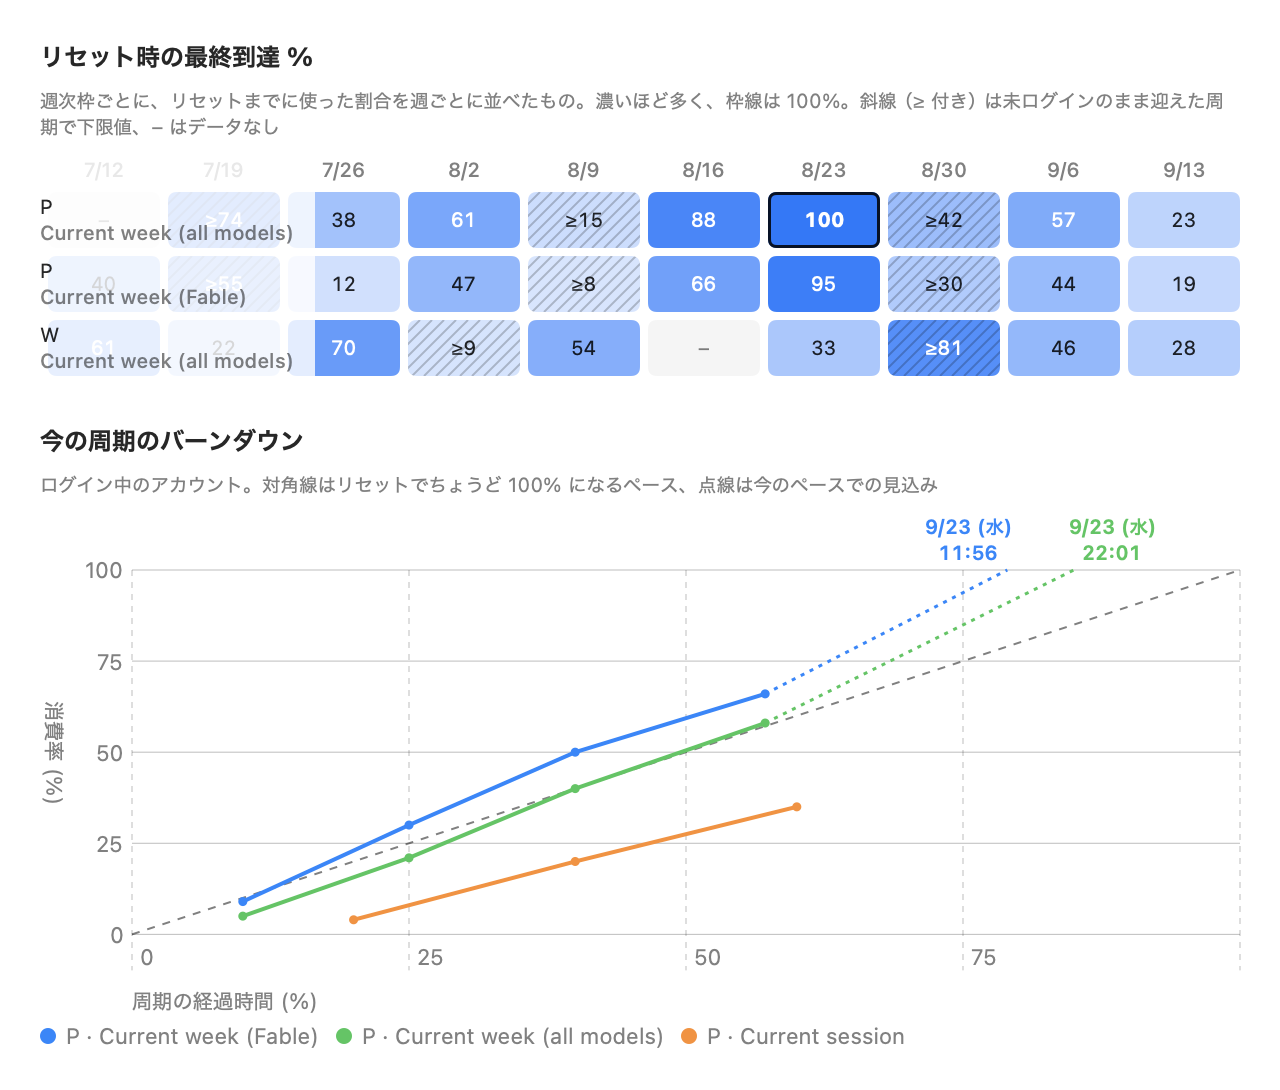
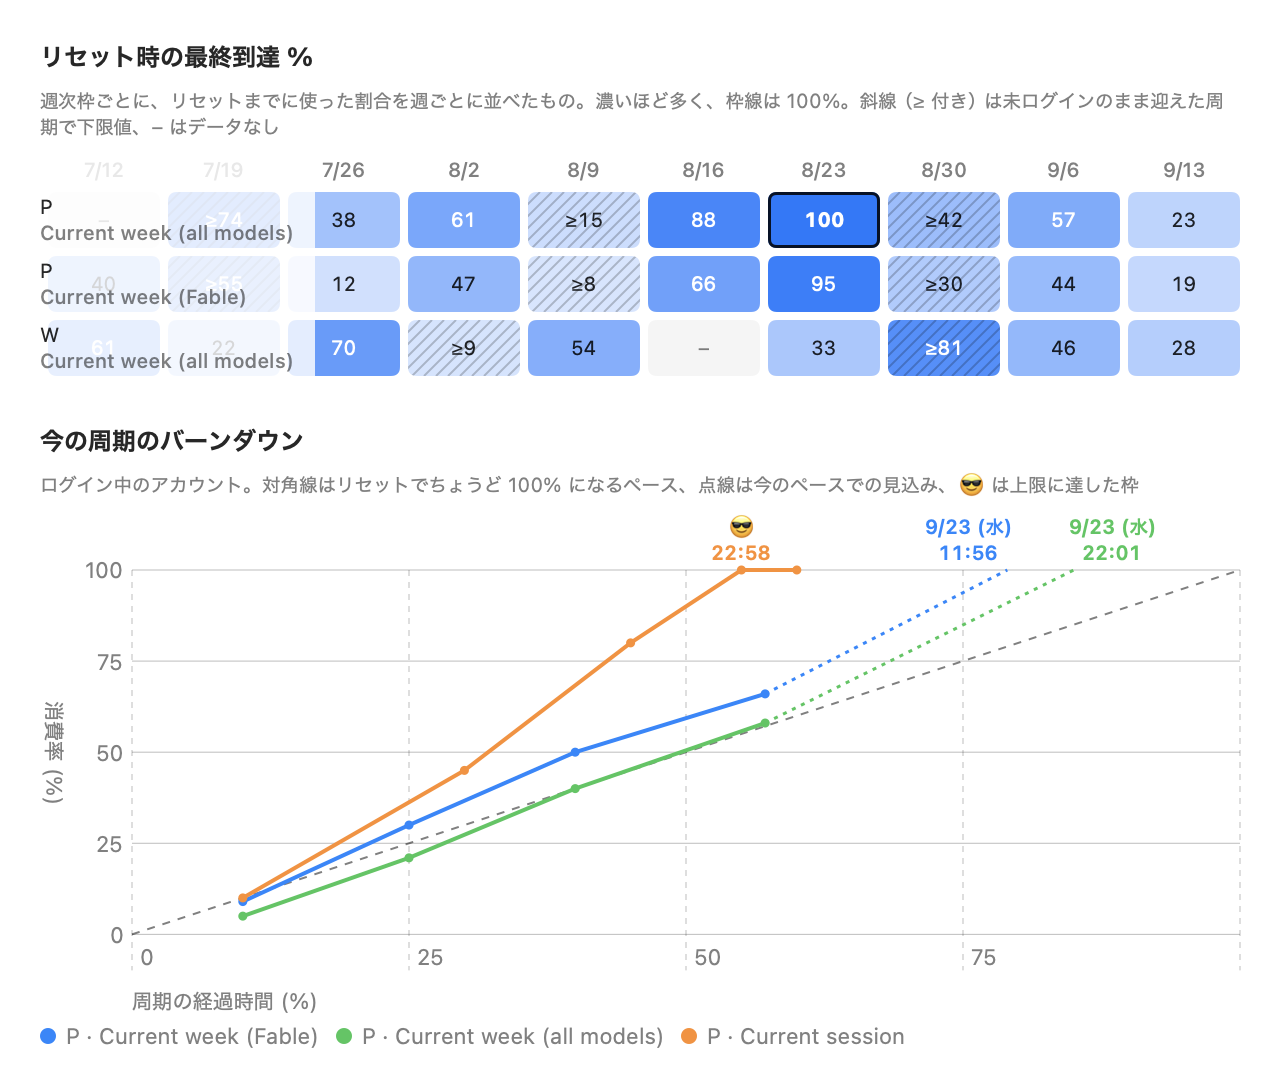
feat: Analytics のバーンダウンで、上限に達した枠の真上に 😎 と到達時刻を出す (#39)

diff --git a/Tests/QuotabackTests/AnalyticsModelTests.swift b/Tests/QuotabackTests/AnalyticsModelTests.swift
@@ -134,6 +134,60 @@ final class AnalyticsModelTests: XCTestCase {
         XCTAssertEqual(marks.first?.resetsAt, reset)
     }
 
+    /// #39 AC-1: a line that hit 100% gets a reached mark at its first observation at the limit
+    func testReachedMarkIsTheFirstObservationAtTheLimit() {
+        let reset = t0 + 2 * hour
+        let start = reset - 5 * hour
+        let session = window("session", percent: 100, resetsAt: reset, cadence: .rolling(5 * hour))
+        let live = [AnalyticsInput.LiveWindow(account: p, estimate: estimate(session, eta: nil),
+                                              points: [(start + hour, 40), (start + 2 * hour, 100), (start + 2.5 * hour, 100)])]
+        let marks = AnalyticsModel.limitMarks(AnalyticsModel.burndown(live, titles: titles))
+        XCTAssertEqual(marks.count, 1)
+        XCTAssertEqual(marks.first?.kind, .reached)
+        XCTAssertEqual(marks.first?.at, start + 2 * hour)
+        XCTAssertEqual(marks.first?.elapsed ?? 0, 40, accuracy: 1e-9)
+        XCTAssertEqual(marks.first?.resetsAt, reset)
+    }
+
+    /// #39 AC-2, AC-3: projections and reached limits together, earliest first; a line below 100% without a
+    /// projection has no mark
+    func testReachedAndProjectedMarksTogether() {
+        let reset = t0 + 4 * day
+        let start = reset - week
+        let projected = AnalyticsInput.LiveWindow(
+            account: p, estimate: estimate(window("weekly_all", percent: 20, resetsAt: reset), eta: start + 0.5 * week),
+            points: [(start + 0.1 * week, 10), (start + 0.2 * week, 20)])
+        let reached = AnalyticsInput.LiveWindow(
+            account: p, estimate: estimate(window("weekly_scoped/Fable", percent: 100, resetsAt: reset), eta: nil),
+            points: [(start + 0.1 * week, 50), (start + 0.3 * week, 100)])
+        let below = AnalyticsInput.LiveWindow(
+            account: w, estimate: estimate(window("weekly_all", percent: 30, resetsAt: reset), eta: nil),
+            points: [(start + 0.1 * week, 10), (start + 0.2 * week, 30)])
+        let marks = AnalyticsModel.limitMarks(AnalyticsModel.burndown([projected, reached, below], titles: titles))
+        XCTAssertEqual(marks.map(\.series), ["\(p.id) weekly_scoped/Fable", "\(p.id) weekly_all"])
+        XCTAssertEqual(marks.map(\.kind), [.reached, .projected])
+        XCTAssertEqual(marks.map(\.at), [start + 0.3 * week, start + 0.5 * week])
+    }
+
+    /// #39 AC-6: a reached mark next to a projected one is pushed apart like any two labels
+    func testReachedAndProjectedMarksDoNotOverlap() {
+        let reset = t0 + 4 * day
+        let start = reset - week
+        let live = [
+            AnalyticsInput.LiveWindow(
+                account: p, estimate: estimate(window("weekly_all", percent: 20, resetsAt: reset), eta: start + 0.31 * week),
+                points: [(start + 0.1 * week, 10), (start + 0.2 * week, 20)]),
+            AnalyticsInput.LiveWindow(
+                account: p, estimate: estimate(window("weekly_scoped/Fable", percent: 100, resetsAt: reset), eta: nil),
+                points: [(start + 0.1 * week, 50), (start + 0.3 * week, 100)]),
+        ]
+        let marks = AnalyticsModel.limitMarks(AnalyticsModel.burndown(live, titles: titles))
+        XCTAssertEqual(Set(marks.map(\.kind)), [.reached, .projected])
+        // A 500pt wide plot: 30% and 31% are 5pt apart, far closer than a 72pt label
+        let xs = AnalyticsModel.spread(marks.map { $0.elapsed * 5 }, width: 72, within: 0...500)
+        XCTAssertGreaterThanOrEqual(abs(xs[0] - xs[1]), 72 - 1e-9)
+    }
+
     func testSpreadMovesOnlyOverlappingLabels() {
         // Far apart: untouched
         XCTAssertEqual(AnalyticsModel.spread([100, 300, 200], width: 50, within: 0...500), [100, 300, 200])

diff --git a/Sources/Quotaback/Core/AnalyticsModel.swift b/Sources/Quotaback/Core/AnalyticsModel.swift
@@ -159,10 +159,13 @@ enum AnalyticsModel {
         }
     }
 
-    /// The end of a projected tail: when the window is projected to hit its limit before the reset
+    /// A label above the chart where a line meets 100%: the end of a projected tail (when the window is projected to hit
+    /// its limit before the reset), or the first observation that already hit it
     struct LimitMark: Identifiable, Hashable {
+        enum Kind: Hashable { case projected, reached }
         let series: String
         let label: String
+        let kind: Kind
         let elapsed: Double
         let at: Date
         let resetsAt: Date
@@ -170,11 +173,18 @@ enum AnalyticsModel {
         var id: String { series }
     }
 
-    /// The limit marks of `burndown`'s projections, earliest first
+    /// The limit marks of `burndown`: one per line that reached 100% (its first observation at the limit) or is
+    /// projected to, earliest first
     static func limitMarks(_ points: [BurnPoint]) -> [LimitMark] {
-        points.filter { $0.kind == .projected && $0.percent >= 100 }
-            .sorted { $0.at < $1.at }
-            .map { LimitMark(series: $0.series, label: $0.label, elapsed: $0.elapsed, at: $0.at, resetsAt: $0.resetsAt) }
+        var reached: [String: BurnPoint] = [:]
+        for p in points where p.kind == .observed && p.percent >= 100 && reached[p.series] == nil { reached[p.series] = p }
+        // No projection once at the limit; if there were one, the observation wins
+        let projected = points.filter { $0.kind == .projected && $0.percent >= 100 && reached[$0.series] == nil }
+        return (reached.values.map { ($0, LimitMark.Kind.reached) } + projected.map { ($0, .projected) })
+            .sorted { $0.0.at < $1.0.at }
+            .map { p, kind in
+                LimitMark(series: p.series, label: p.label, kind: kind, elapsed: p.elapsed, at: p.at, resetsAt: p.resetsAt)
+            }
     }
 
     /// Centers for labels `width` wide that want to sit at `xs`, moved as little as possible so that none overlap

diff --git a/Sources/Quotaback/Core/L10n.swift b/Sources/Quotaback/Core/L10n.swift
@@ -76,8 +76,8 @@ enum L10n {
     }
     static var analyticsBurndown: String { t("Current cycle", "今の周期のバーンダウン") }
     static var analyticsBurndownNote: String {
-        t("Logged-in accounts. The diagonal is the even pace to 100% at the reset; the dotted tail is the projection at the current pace",
-          "ログイン中のアカウント。対角線はリセットでちょうど 100% になるペース、点線は今のペースでの見込み")
+        t("Logged-in accounts. The diagonal is the even pace to 100% at the reset; the dotted tail is the projection at the current pace; 😎 marks a limit already hit",
+          "ログイン中のアカウント。対角線はリセットでちょうど 100% になるペース、点線は今のペースでの見込み、😎 は上限に達した枠")
     }
     static var analyticsElapsed: String { t("Time into cycle (%)", "周期の経過時間 (%)") }
     static var analyticsUsage: String { t("Usage (%)", "消費率 (%)") }
@@ -86,6 +86,11 @@ enum L10n {
     static func analyticsLimitHelp(_ at: String, _ lead: String, _ reset: String) -> String {
         t("Limit hit \(at) at the current pace, \(lead) before the reset \(reset)",
           "このペースだと \(at) に上限（リセット \(reset) の \(lead) 前）")
+    }
+    /// Tooltip of a reached mark on the burndown: when the limit was hit, how long before the reset, and the reset
+    static func analyticsReachedHelp(_ at: String, _ lead: String, _ reset: String) -> String {
+        t("Limit hit \(at), \(lead) before the reset \(reset)",
+          "\(at) に上限到達（リセット \(reset) の \(lead) 前）")
     }
     /// "1d 18h" / "1日18時間". Hours only under a day, minutes only under an hour
     static func duration(_ seconds: TimeInterval) -> String {

diff --git a/Tests/QuotabackTests/AnalyticsRenderTests.swift b/Tests/QuotabackTests/AnalyticsRenderTests.swift
@@ -39,7 +39,7 @@ final class AnalyticsRenderTests: XCTestCase {
         }
         let weekly = WindowObservation(key: "weekly_all", title: "Current week (all models)", percent: 58, resetsAt: reset,
                                        isLimit: true, detail: nil, cadence: .fixed(week))
-        let session = WindowObservation(key: "session", title: "Current session", percent: 35, resetsAt: t0 + 2 * hour,
+        let session = WindowObservation(key: "session", title: "Current session", percent: 100, resetsAt: t0 + 2 * hour,
                                         isLimit: true, detail: nil, cadence: .rolling(5 * hour))
         let fable = WindowObservation(key: "weekly_scoped/Fable", title: "Current week (Fable)", percent: 66, resetsAt: reset,
                                       isLimit: true, detail: nil, cadence: .fixed(week))
@@ -58,9 +58,11 @@ final class AnalyticsRenderTests: XCTestCase {
                 points: [(start + 0.1 * week, 5), (start + 0.25 * week, 21), (start + 0.4 * week, 40), (t0, 58)]),
             AnalyticsInput.LiveWindow(
                 account: p,
-                estimate: WindowEstimate(window: session, value: .exact(35), nextReset: .known(t0 + 2 * hour),
+                // Already at its limit: 😎 over the time it hit, instead of a projection
+                estimate: WindowEstimate(window: session, value: .exact(100), nextReset: .known(t0 + 2 * hour),
                                          observedAt: t0, limitETA: nil),
-                points: [(t0 - 2 * hour, 4), (t0 - hour, 20), (t0, 35)]),
+                points: [(t0 - 2.5 * hour, 10), (t0 - 1.5 * hour, 45), (t0 - 0.75 * hour, 80), (t0 - 0.25 * hour, 100),
+                         (t0, 100)]),
         ]
         return AnalyticsInput(cycles: cycles, titles: [p: "P", w: "W"], live: live, now: t0)
     }

diff --git a/Sources/Quotaback/AnalyticsView.swift b/Sources/Quotaback/AnalyticsView.swift
@@ -217,17 +217,20 @@ struct AnalyticsCharts: View {
         }
     }
 
-    /// When the tail hits 100%: the day over the time, in the line's color. Hover for the reset and how much earlier
+    /// When the line hits 100%, in the line's color: the day over the time for a projection, 😎 over the time once it
+    /// has hit (an emoji takes no color, so the time tells whose it is). Hover for the reset and how much earlier
     private func limitLabel(_ m: AnalyticsModel.LimitMark, color: Color) -> some View {
-        VStack(spacing: 0) {
-            Text(Self.limitFormat("M/d (E)", m.at))
+        let lead = L10n.duration(m.resetsAt.timeIntervalSince(m.at))
+        return VStack(spacing: 0) {
+            Text(m.kind == .reached ? "😎" : Self.limitFormat("M/d (E)", m.at))
             Text(Self.limitFormat("HH:mm", m.at))
         }
         .font(.caption2.monospacedDigit().weight(.semibold))
         .foregroundStyle(color)
         .fixedSize()
-        .help(L10n.analyticsLimitHelp(WindowRow.format(m.at), L10n.duration(m.resetsAt.timeIntervalSince(m.at)),
-                                      WindowRow.format(m.resetsAt)))
+        .help(m.kind == .reached
+              ? L10n.analyticsReachedHelp(WindowRow.format(m.at), lead, WindowRow.format(m.resetsAt))
+              : L10n.analyticsLimitHelp(WindowRow.format(m.at), lead, WindowRow.format(m.resetsAt)))
     }
 
     /// Room a limit label takes, a little more than "12/30 (Wed)" so that neighbors keep a gap
